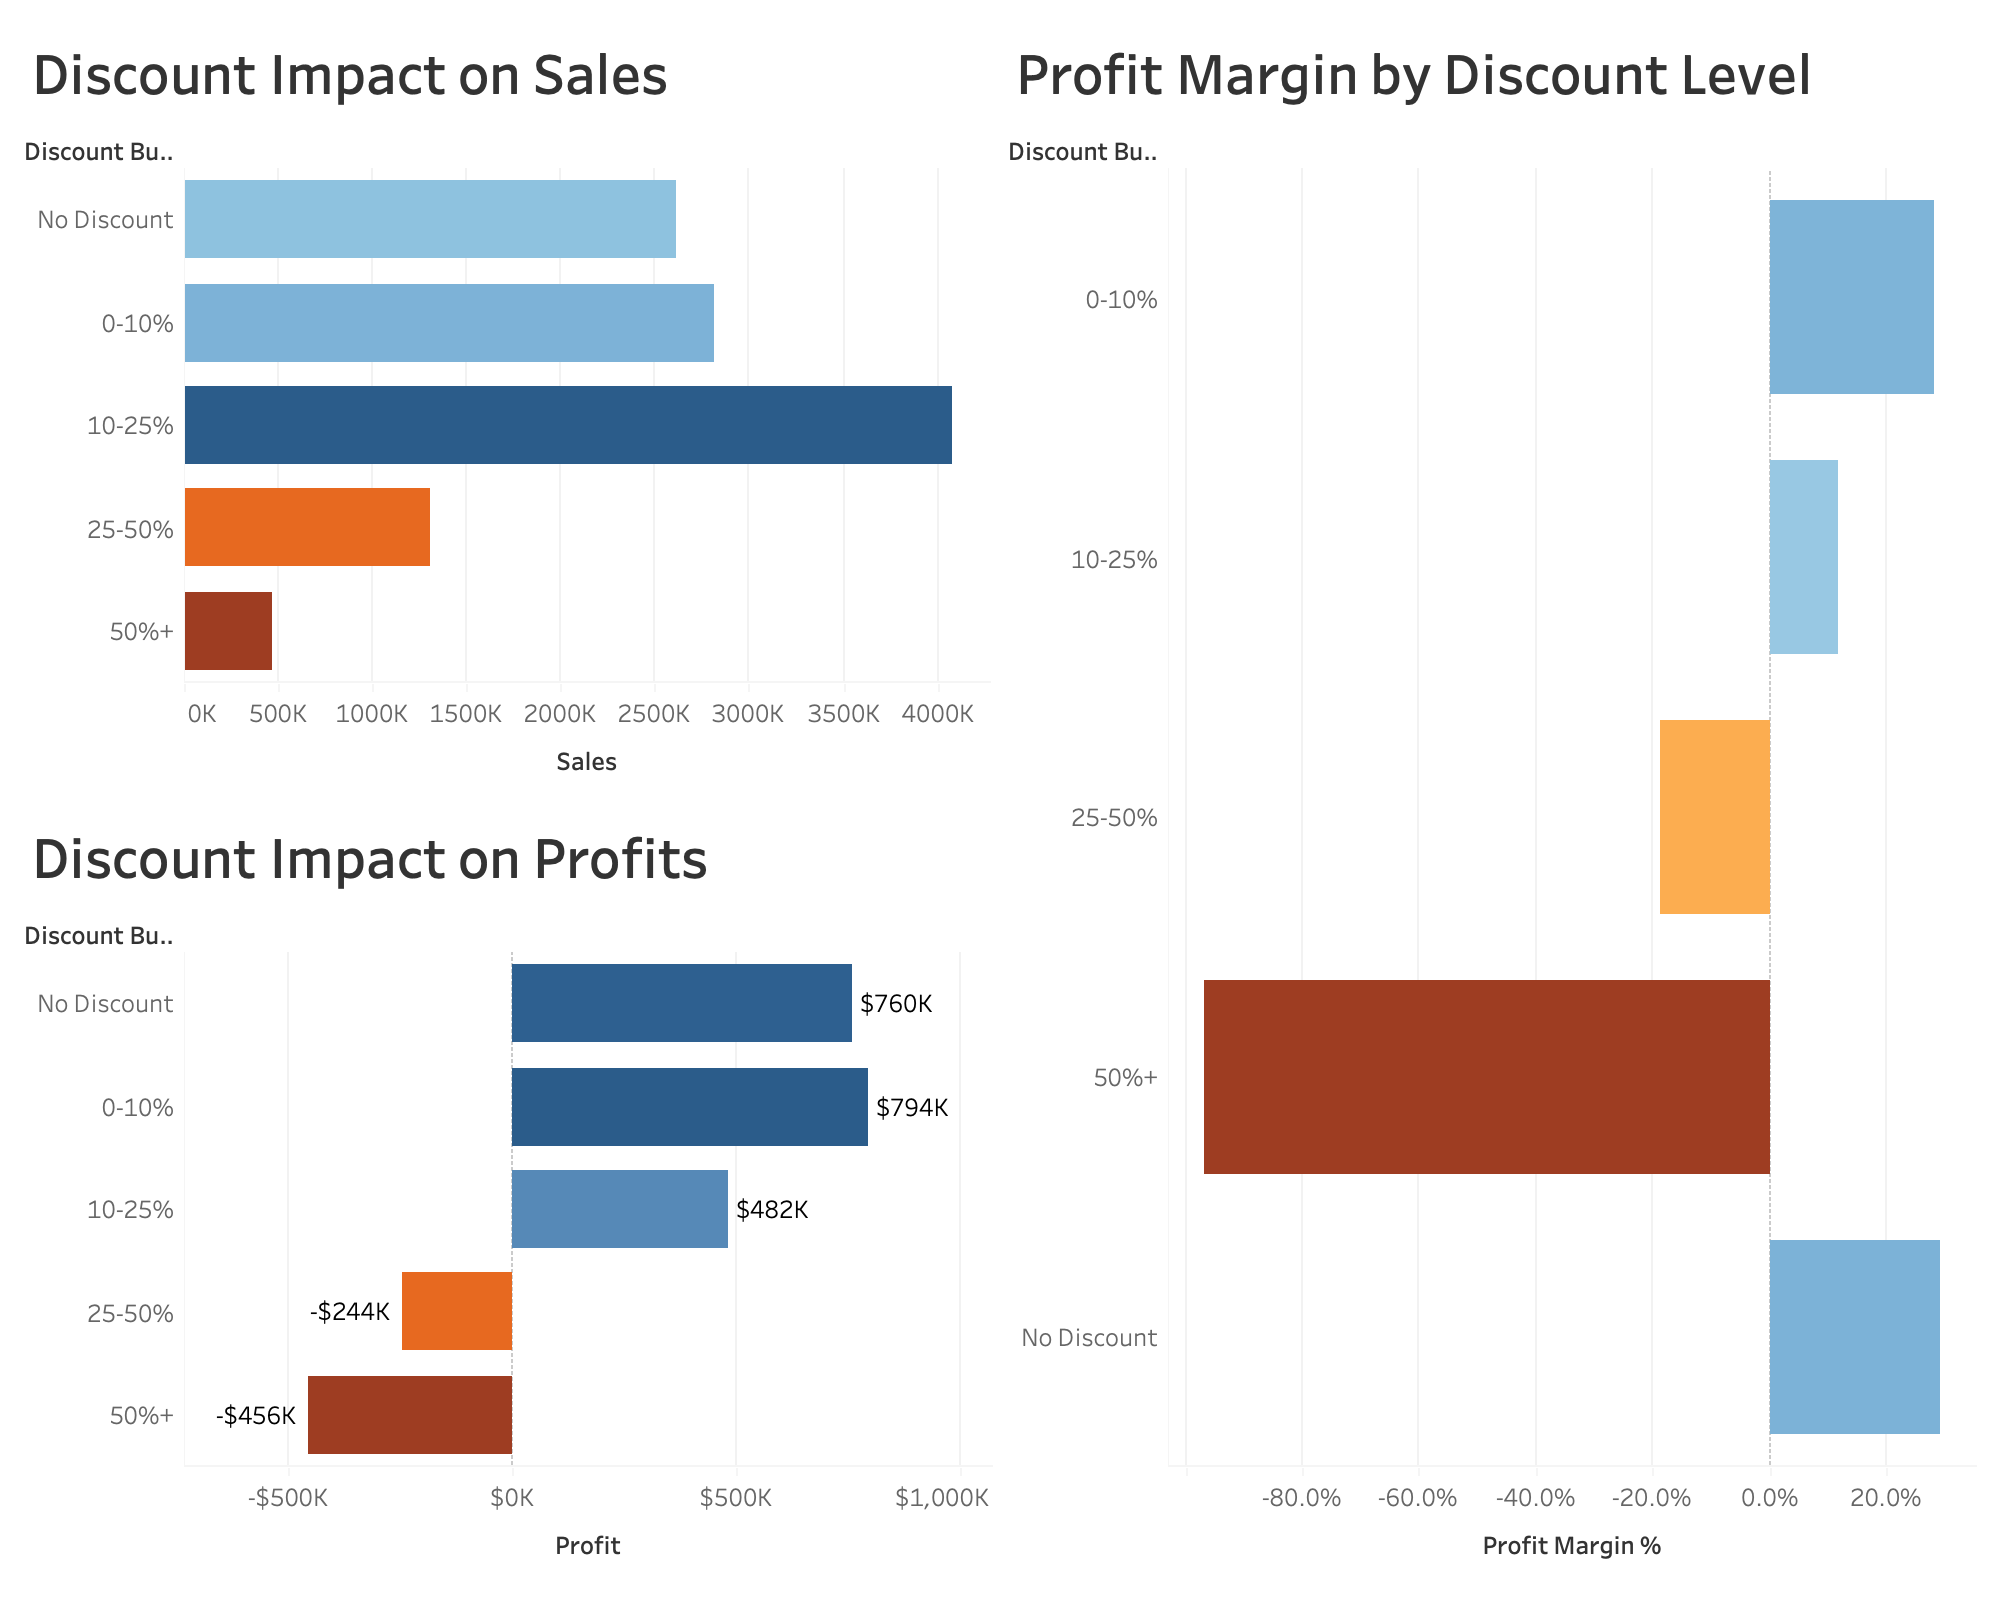
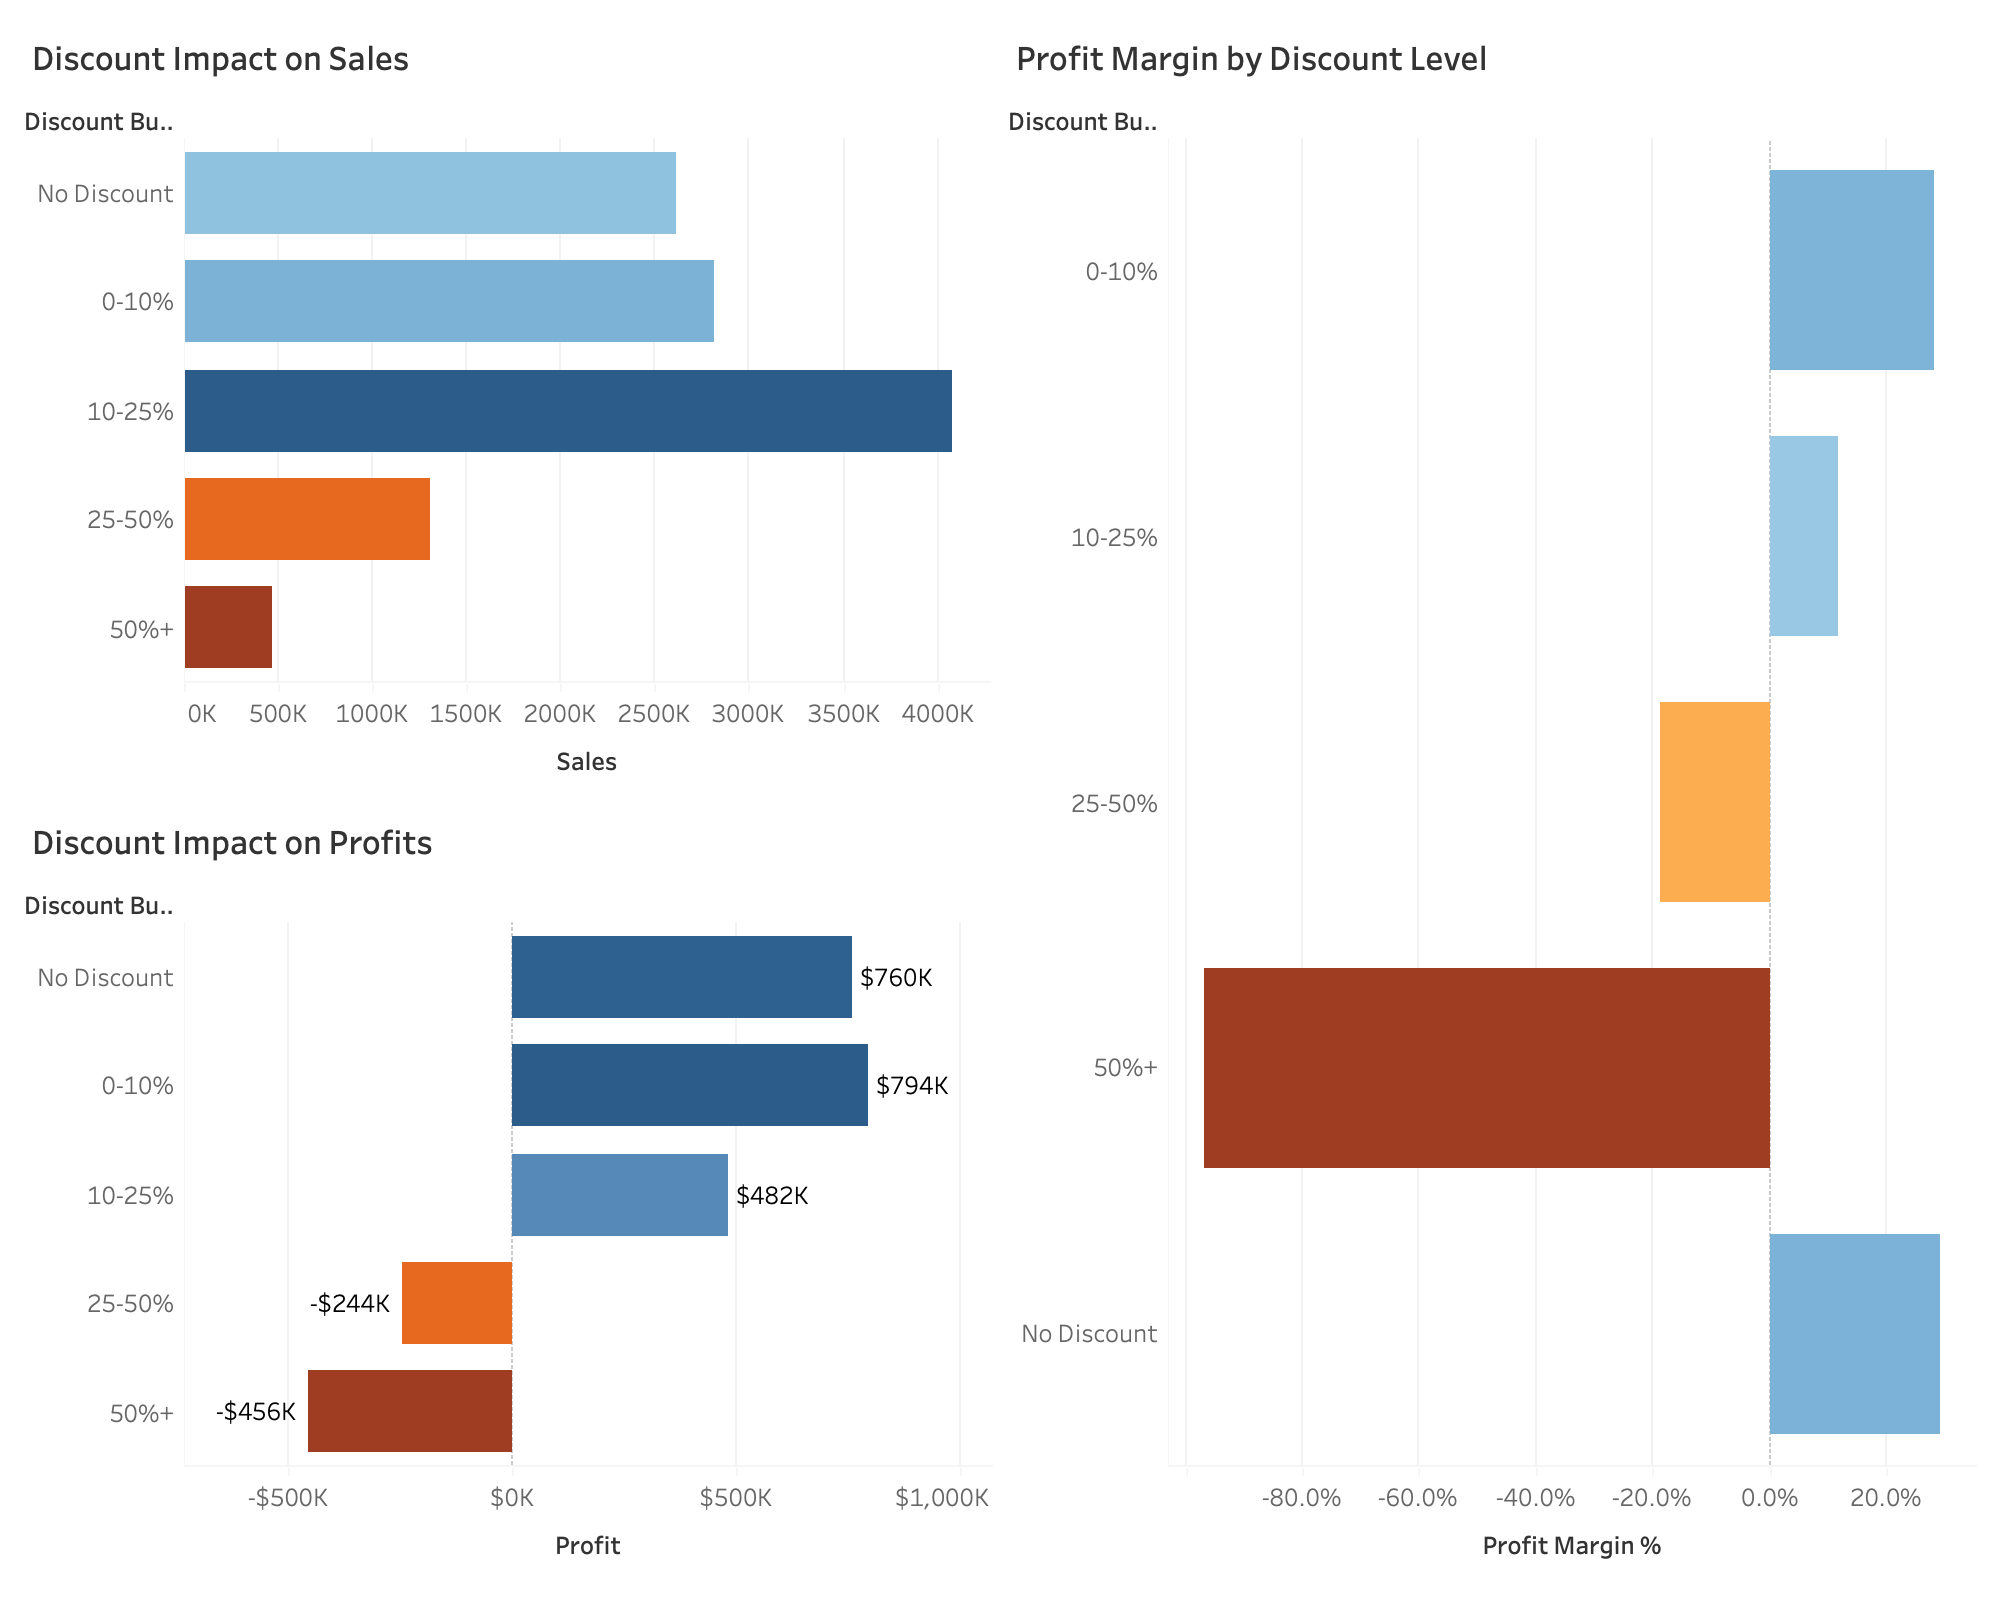
resizing and chart location

diff --git a/README.md b/README.md
@@ -42,19 +42,15 @@ The objective was to identify:
 
 ---
 
-### Executive Summary Dashboard
-
 ![Executive Summary](images/executive_summary.png)
 
 ## Key Findings
 
 ### 1. High Discounts Reduced Profitability
 
-Discounting emerged as the primary driver of profit leakage. While discounts below 25% remained profitable, discounts above 25% generated significant losses, and orders discounted over 50% produced the lowest profit margins in the dataset.
-
-### Root Cause Analysis Dashboard
-
 ![Root Cause Analysis](images/root_cause_analysis_dashboard.png)
+
+Discounting emerged as the primary driver of profit leakage. While discounts below 25% remained profitable, discounts above 25% generated significant losses, and orders discounted over 50% produced the lowest profit margins in the dataset.
 
 ### 2. State-Level Losses Were Concentrated in a Small Number of States
 
